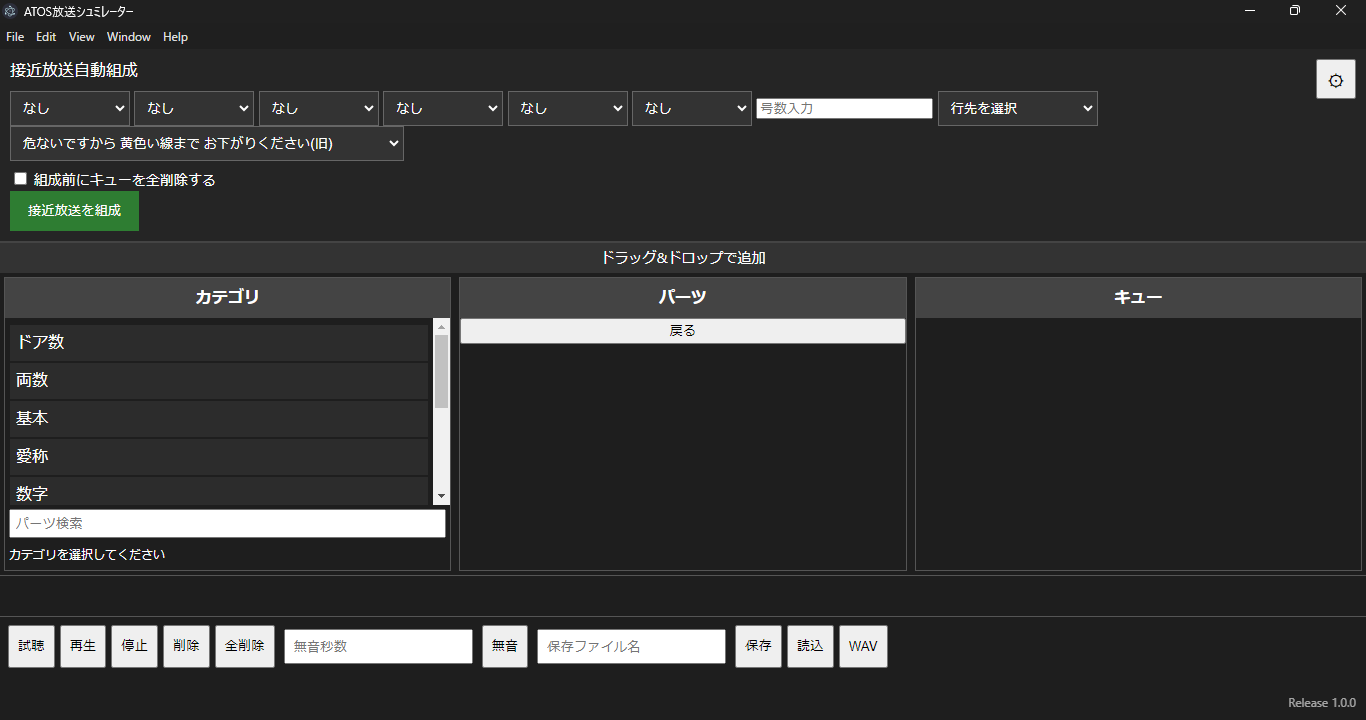
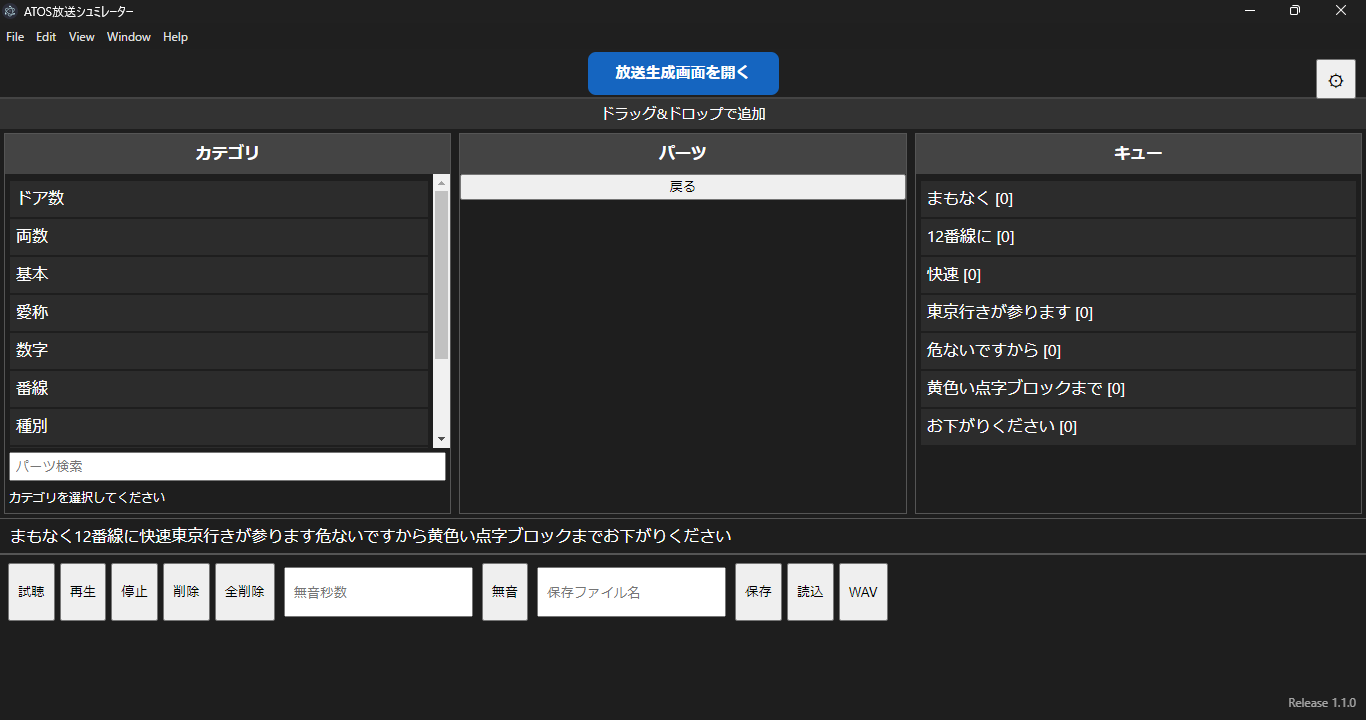
Update 4 files

diff --git a/index.html b/index.html
@@ -1,144 +1,150 @@
 <!DOCTYPE html>
 <html lang="ja">
-<head>
-    <meta charset="UTF-8">
-    <meta name="viewport" content="width=device-width, initial-scale=1.0">
-    <title>ATOS放送シュミレーター Official Page</title>
-    <link rel="stylesheet" href="style.css">
-</head>
-<body>
+    <head>
+        <meta charset="UTF-8">
+        <meta name="viewport" content="width=device-width, initial-scale=1.0">
+        <title>ATOS放送シュミレーター Official Page</title>
+        <link rel="stylesheet" href="style.css">
+    </head>
+    <body>
 
-    <!-- 背景演出 -->
-    <div id="bgGrid"></div>
-    <div id="bgGlow"></div>
+        <!-- 背景演出 -->
+        <div id="bgGrid"></div>
+        <div id="bgGlow"></div>
 
-    <!-- =========================
+        <!-- =========================
          ヘッダー
     ========================== -->
-    <header id="topHeader">
-        <div id="headerInner">
-            <div id="mainTitle">ATOS放送シュミレーター</div>
-            <div id="subTitle1">ATOS放送を、より自由に、より精密に。</div>
-            <div id="subTitle2">接近放送・発車放送・編集・出力をこの一本に。</div>
-            <div id="subTitle3">阪和線委員会制作 JR放送再現ソフト</div>
-            <div id="versionTag">Release 1.0.1 / 修正パッチ適用版</div>
+        <header id="topHeader">
+            <div id="headerInner">
+                <div id="mainTitle">ATOS放送シュミレーター</div>
+                <div id="subTitle1">ATOS放送を、より自由に、より精密に。</div>
+                <div id="subTitle2">接近放送・発車放送・編集・出力をこの一本に。</div>
+                <div id="subTitle3">阪和線委員会制作 JR放送再現ソフト</div>
+                <div id="versionTag">Release 1.1.0 / 新機能</div>
+            </div>
+        </header>
+        <div id="tickerWrap">
+            <div id="tickerText">
+                ATOS放送シュミレーター Release 1.1.0 公開中 ｜ JR東日本型自動放送編集ソフト ｜ Desktop
+                Edition Official Distribution Page
+            </div>
         </div>
-    </header>
-    <div id="tickerWrap">
-    <div id="tickerText">
-        ATOS放送シュミレーター Release 1.0.1 公開中　｜　JR東日本型自動放送編集ソフト　｜　Desktop Edition Official Distribution Page
-    </div>
-</div>
 
-    <!-- =========================
+        <!-- =========================
          ソフト紹介
     ========================== -->
-    <section class="infoSection">
-        <div class="sectionTitle">SOFTWARE INFORMATION</div>
-        <div class="sectionBody">
-            <p>
-                ATOS放送シュミレーターは、JR東日本型ATOS自動放送の音声パーツを自由に組み合わせ、
-                接近放送・発車放送・案内放送などを高精度に再現・編集・出力できる
-                デスクトップ専用放送再現ソフトです。
-            </p>
+        <section class="infoSection">
+            <div class="sectionTitle">SOFTWARE INFORMATION</div>
+            <div class="sectionBody">
+                <p>
+                    ATOS放送シュミレーターは、JR東日本型ATOS自動放送の音声パーツを自由に組み合わせ、
+                    接近放送・発車放送・案内放送などを高精度に再現・編集・出力できる
+                    デスクトップ専用放送再現ソフトです。
+                </p>
 
-            <p>
-                複数パーツのキュー編集、無音秒数挿入、TNQ保存、WAV一括出力、
-                自動ノーマライズ、接近放送自動組成など、
-                実用性を重視した多数の機能を搭載しています。
-            </p>
-        </div>
-    </section>
+                <p>
+                    複数パーツのキュー編集、無音秒数挿入、TNQ保存、WAV一括出力、
+                    自動ノーマライズ、接近放送自動組成など、
+                    実用性を重視した多数の機能を搭載しています。
+                </p>
+            </div>
+        </section>
 
-    <!-- =========================
+        <!-- =========================
          修正内容
     ========================== -->
-    <section class="infoSection">
-        <div class="sectionTitle">RELEASE 1.0.1 PATCH NOTES</div>
-        <div class="sectionBody">
-            <ul class="patchList">
-                <li>接近放送自動組成処理の内部不具合を修正</li>
-                <li>組成前キュー全削除チェック機能を修正</li>
-                <li>行先のみ必須判定へ変更</li>
-                <li>再生処理の安定化</li>
-                <li>Undo保存処理の改善</li>
-                <li>内部ID不一致による停止問題を修正</li>
-                <li>各種軽微な動作修正</li>
-            </ul>
-        </div>
-    </section>
+        <section class="infoSection">
+            <div class="sectionTitle">RELEASE 1.1.0 PATCH NOTES</div>
+            <div class="sectionBody">
+                <ul class="patchList">
+                    <li>放送生成画面を追加</li>
+                    <li>接近放送以外の放送関連のタブを追加</li>
+                    <li>戸閉放送生成を追加</li>
+                    <li>生成文章プレビュー機能</li>
+                    <li>メイン画面の微調整</li>
+                    <li>一部機能の修正</li>
+                </ul>
+            </div>
+        </section>
         <!-- =========================
          スクリーンショット
     ========================== -->
-    <section class="infoSection">
-        <div class="sectionTitle">SCREEN SHOTS</div>
-        <div class="sectionBody">
+        <section class="infoSection">
+            <div class="sectionTitle">SCREEN SHOTS</div>
+            <div class="sectionBody">
 
-            <div id="screenArea">
+                <div id="screenArea">
 
-                <div class="screenCard">
-                    <img src="images/screen1.png" alt="screen1">
-                    <div class="screenCaption">メイン編集画面</div>
-                </div>
+                    <div class="screenCard">
+                        <img src="images/screen1.png" alt="screen1">
+                        <div class="screenCaption">メイン編集画面</div>
+                    </div>
 
-                <div class="screenCard">
-                    <img src="images/screen2.png" alt="screen3">
-                    <div class="screenCaption">設定画面</div>
+                    <div class="screenCard">
+                        <img src="images/screen2.png" alt="screen3">
+                        <div class="screenCaption">設定画面</div>
+                    </div>
+                    <div class="screenCard">
+                        <img src="images/screen3.png" alt="screen3">
+                        <div class="screenCaption">放送生成画面</div>
+                    </div>
+
                 </div>
 
             </div>
+        </section>
 
-        </div>
-    </section>
-
-    <!-- =========================
+        <!-- =========================
          ダウンロード
     ========================== -->
-    <section class="infoSection">
-    <div class="sectionTitle">DOWNLOAD</div>
-    <div class="sectionBody">
+        <section class="infoSection">
+            <div class="sectionTitle">DOWNLOAD</div>
+            <div class="sectionBody">
 
-        <div style="text-align:center; padding:30px;">
-            <p style="font-size:20px; margin-bottom:25px;">
-                最新版・旧版・ベータ版のダウンロードはこちら
-            </p>
+                <div style="text-align:center; padding:30px;">
+                    <p style="font-size:20px; margin-bottom:25px;">
+                        最新版・旧版・ベータ版のダウンロードはこちら
+                    </p>
 
-            <a href="download.html" class="downloadBtn" style="font-size:22px; padding:16px 35px;">
-                DOWNLOAD PAGEへ
-            </a>
-        </div>
+                    <a href="download.html" class="downloadBtn"
+                        style="font-size:22px; padding:16px 35px;">
+                        DOWNLOAD PAGEへ
+                    </a>
+                </div>
 
-    </div>
-</section>
+            </div>
+        </section>
 
-    <!-- =========================
+        <!-- =========================
          更新履歴
     ========================== -->
-    <section class="infoSection">
-        <div class="sectionTitle">UPDATE HISTORY</div>
-        <div class="sectionBody">
-            <ul class="patchList">
-                <li>Release 1.0.1 - 修正パッチ公開</li>
-                <li>Release 1.0.0 - Desktop Edition 初版公開</li>
-                <li>Beta 1.0.0 - 内部試験版</li>
-            </ul>
-        </div>
-    </section>
+        <section class="infoSection">
+            <div class="sectionTitle">UPDATE HISTORY</div>
+            <div class="sectionBody">
+                <ul class="patchList">
+                    <li>Release 1.1.0 - 新機能公開</li>
+                    <li>Release 1.0.1 - 修正パッチ公開</li>
+                    <li>Release 1.0.0 - Desktop Edition 初版公開</li>
+                    <li>Beta 1.0.0 - 内部試験版</li>
+                </ul>
+            </div>
+        </section>
 
-    <!-- =========================
+        <!-- =========================
          開発者
     ========================== -->
-    <section class="infoSection">
-        <div class="sectionTitle">DEVELOPER</div>
-        <div class="sectionBody">
-            <p>Made by Hanwa Line Committee</p>
-            <p>JR自動放送再現・音声編集ソフト開発プロジェクト</p>
-        </div>
-    </section>
+        <section class="infoSection">
+            <div class="sectionTitle">DEVELOPER</div>
+            <div class="sectionBody">
+                <p>Made by Hanwa Line Committee</p>
+                <p>JR自動放送再現・音声編集ソフト開発プロジェクト</p>
+            </div>
+        </section>
 
-    <footer id="footer">
-        ATOS放送シュミレーター Official Distribution Page
-    </footer>
-    <script src="script.js"></script>
-</body>
+        <footer id="footer">
+            ATOS放送シュミレーター Official Distribution Page
+        </footer>
+        <script src="script.js"></script>
+    </body>
 </html>

diff --git a/download.html b/download.html
@@ -36,10 +36,20 @@
         <div class="sectionBody">
 
             <div id="downloadWrap">
+                
+                <div class="downloadCard">
+                    <div class="downloadTitle">リリース版 Release 1.1.0</div>
+                    <div class="downloadSub">新機能 / 現在の推奨版</div>
+                    <div class="downloadInfo">公開日：2026年5月2日</div>
+                    <div class="downloadInfo">内容：新機能追加・一部不具合修正</div>
+                    <a href="https://github.com/miyachifumito/ATOS-Editor/releases/download/Release-1.1.0/ATOSBroadcastSimulater.Release-1.1.0.exe" class="downloadBtn">
+                        ダウンロード
+                    </a>
+                </div>
 
                 <div class="downloadCard">
-                    <div class="downloadTitle">最新リリース版 Release 1.0.1</div>
-                    <div class="downloadSub">修正パッチ適用版 / 現在の推奨版</div>
+                    <div class="downloadTitle">リリース版 Release 1.0.1</div>
+                    <div class="downloadSub">修正パッチ適用版</div>
                     <div class="downloadInfo">公開日：2026年5月1日</div>
                     <div class="downloadInfo">内容：接近放送組成不具合修正・内部安定化</div>
                     <a href="https://github.com/miyachifumito/ATOS-Editor/releases/download/Release-1.0.1/ATOSBroadcastSimulater.Release-1.0.1.exe" class="downloadBtn">
@@ -81,7 +91,7 @@
             <ul class="patchList">
                 <li>Windows専用ソフトです</li>
                 <li>初回起動時にセキュリティ警告が表示される場合があります</li>
-                <li>最新版 Release 1.0.1 の使用を推奨します</li>
+                <li>最新版 Release 1.1.0 の使用を推奨します</li>
                 <li>旧版・ベータ版の使用は自己責任でお願いします</li>
             </ul>
         </div>
